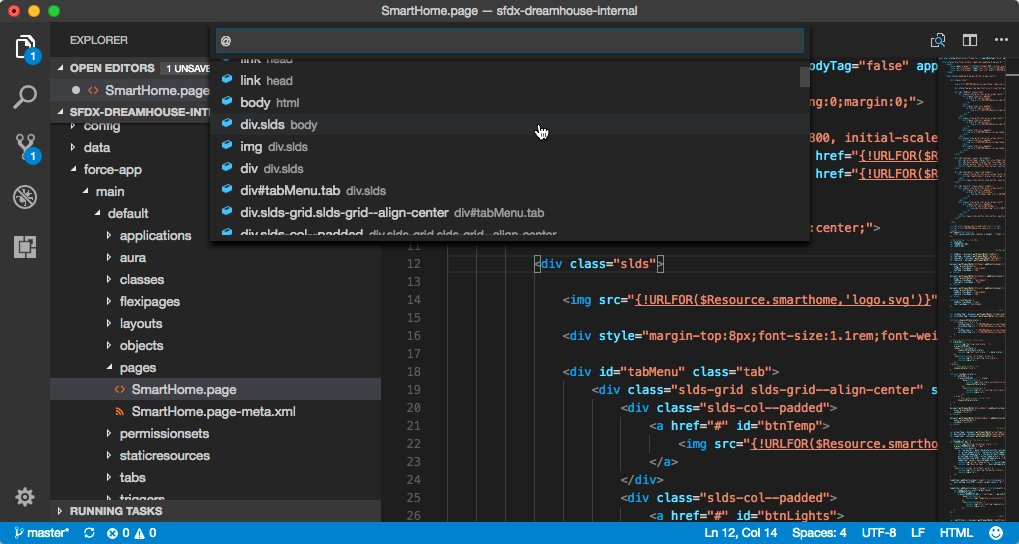
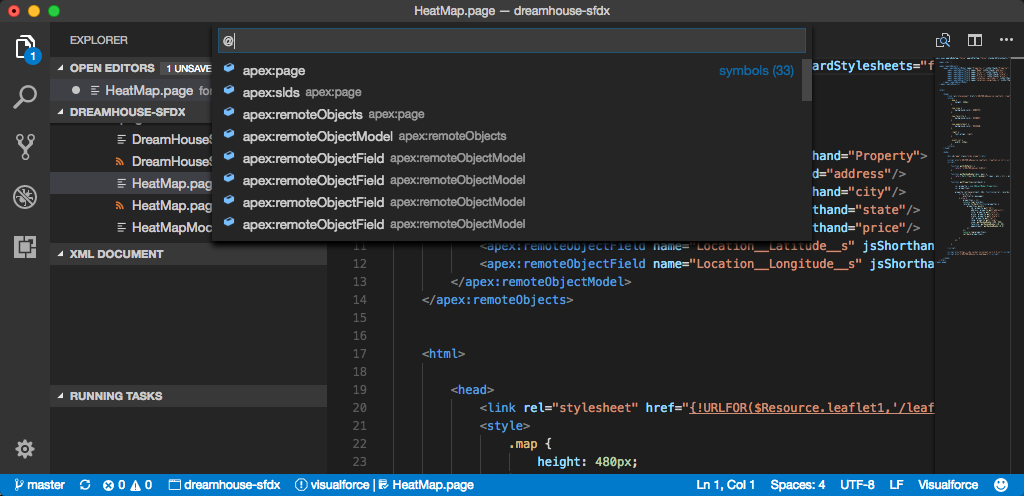
Add info on VF Language Server to docs
@
W-4402978@

Changed region(s): [[0.0, 0.0, 1.0, 1.0], [0.0, 0.0, 0.0608, 0.0302], [0.5172, 0.2419, 0.5476, 0.2722]]

diff --git a/packages/salesforcedx-vscode-visualforce/README.md b/packages/salesforcedx-vscode-visualforce/README.md
@@ -1,23 +1,24 @@
 # salesforcedx-vscode-visualforce
-This extension uses the default HTML language server from VS Code to provide syntax highlighting, code completion, and an outline view of your files.
+This extension uses the Visualforce Language Server and VS Code’s default HTML language server to provide syntax highlighting, code completion, and an outline view of your files.
 
 For best results, use this extension with the other extensions in the [salesforcedx-vscode](https://marketplace.visualstudio.com/items?itemName=salesforce.salesforcedx-vscode) bundle.  
 
 ## Features Provided by This Extension
+* Code completion (invoke using Ctrl+Space)
+   * Standard Visualforce components (tags and attributes), with Salesforce documentation
+   * HTML tags
+   * CSS
+   * JavaScript  
+   
+   ![Code-completion options and associated documentation in a .page file](https://raw.githubusercontent.com/forcedotcom/salesforcedx-vscode/develop/packages/salesforcedx-vscode-visualforce/images/visualforce_completion.png)
+
 * Syntax highlighting in some sections of various files (`.page`, `.component`, `.app`, and so on)
    * HTML portions
    * Embedded CSS and JavaScript portions  
    
    ![Colored syntax highlighting in a .page file](https://raw.githubusercontent.com/forcedotcom/salesforcedx-vscode/develop/packages/salesforcedx-vscode-visualforce/images/visualforce_syntax.png)
 
-* Code completion
-   * HTML tags
-   * CSS
-   * JavaScript  
-   
-   ![Code-completion options in a .page file](https://raw.githubusercontent.com/forcedotcom/salesforcedx-vscode/develop/packages/salesforcedx-vscode-visualforce/images/visualforce_completion.png)
-
-* Outline view  
+* Outline view (invoke using Cmd+Shift+O on macOS, or Ctrl+Shift+O on Windows and Linux)
 
    ![List of symbols in a .page file](https://raw.githubusercontent.com/forcedotcom/salesforcedx-vscode/develop/packages/salesforcedx-vscode-visualforce/images/visualforce_outline.png)
 
@@ -25,6 +26,7 @@ For best results, use this extension with the other extensions in the [salesforc
 * Trailhead: [Get Started with Salesforce DX](https://trailhead.salesforce.com/trails/sfdx_get_started)
 * _[Salesforce DX Developer Guide](https://developer.salesforce.com/docs/atlas.en-us.sfdx_dev.meta/sfdx_dev)_
 * _[Visualforce Developer Guide](https://developer.salesforce.com/docs/atlas.en-us.pages.meta/pages)_
+* GitHub: [Language Server Protocol](https://github.com/Microsoft/language-server-protocol)
 * GitHub: [salesforcedx-vscode-visualforce](https://github.com/forcedotcom/salesforcedx-vscode/tree/develop/packages/salesforcedx-vscode-visualforce)
 
 ---

diff --git a/packages/salesforcedx-vscode-lightning/README.md b/packages/salesforcedx-vscode-lightning/README.md
@@ -10,14 +10,14 @@ For best results, use this extension with the other extensions in the [salesforc
 
    ![Colored syntax highlighting in a .js file from a Lightning bundle](https://raw.githubusercontent.com/forcedotcom/salesforcedx-vscode/develop/packages/salesforcedx-vscode-lightning/images/lightning_syntax.png)
 
-* Code completion
+* Code completion (invoke using Ctrl+Space)
    * HTML tags
    * CSS
    * JavaScript  
 
    ![Code-completion options in a .js file from a Lightning bundle](https://raw.githubusercontent.com/forcedotcom/salesforcedx-vscode/develop/packages/salesforcedx-vscode-lightning/images/lightning_completion.png)
 
-* Outline view  
+* Outline view (invoke using Cmd+Shift+O on macOS, or Ctrl+Shift+O on Windows and Linux)
 
    ![List of symbols in a .js file from a Lightning bundle](https://raw.githubusercontent.com/forcedotcom/salesforcedx-vscode/develop/packages/salesforcedx-vscode-lightning/images/lightning_outline.png)
 

diff --git a/packages/salesforcedx-vscode-apex/README.md b/packages/salesforcedx-vscode-apex/README.md
@@ -39,6 +39,7 @@ If you’re not seeing the Apex completion suggestions that you expect, your Ape
 * Trailhead: [Get Started with Salesforce DX](https://trailhead.salesforce.com/trails/sfdx_get_started)
 * _[Salesforce DX Developer Guide](https://developer.salesforce.com/docs/atlas.en-us.sfdx_dev.meta/sfdx_dev)_
 * _[Apex Developer Guide](https://developer.salesforce.com/docs/atlas.en-us.apexcode.meta/apexcode)_
+* GitHub: [Language Server Protocol](https://github.com/Microsoft/language-server-protocol)
 * GitHub: [salesforcedx-vscode-apex](https://github.com/forcedotcom/salesforcedx-vscode/tree/develop/packages/salesforcedx-vscode-apex)
 
 ---
